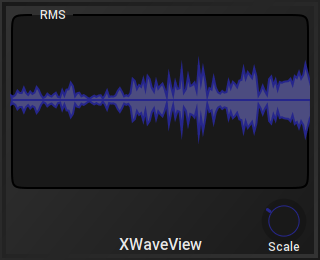
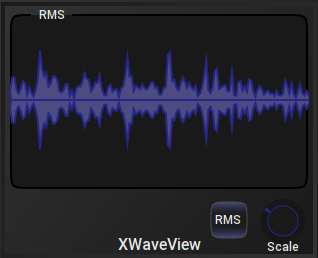
Add sreenshoot for direct rendering

diff --git a/README.md b/README.md
@@ -2,12 +2,15 @@
 
 simple scope LV2 plugin
 
-![XWaveView](https://github.com/brummer10/XWaveView.lv2/raw/master/XWaveView.png)
+RMS                        |  Direct
+:-------------------------:|:-------------------------:
+![XWaveView](https://github.com/brummer10/XWaveView.lv2/raw/master/XWaveView.png) | ![XWaveView](https://github.com/brummer10/XWaveView.lv2/raw/master/XWaveView_direct.png)
 
 
 ## Features
 
 - Display RMS waveform
+- Display direct waveform
 
 
 ## Dependencys
